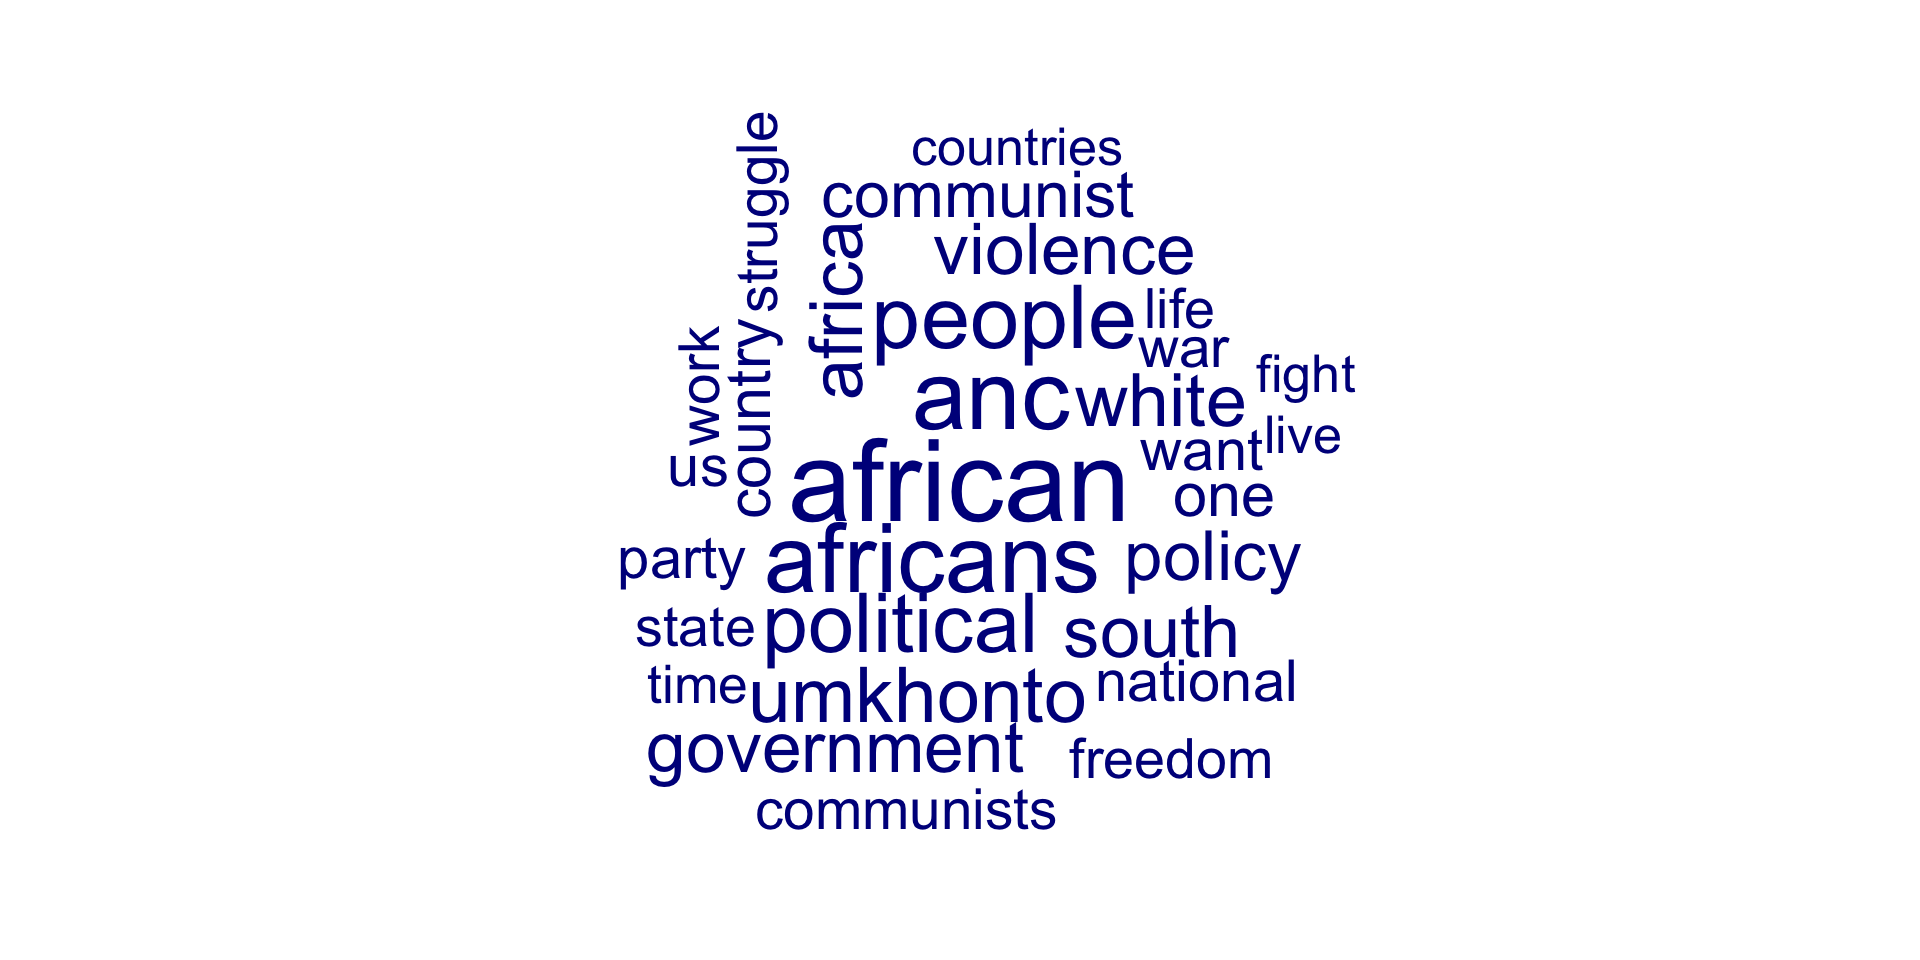
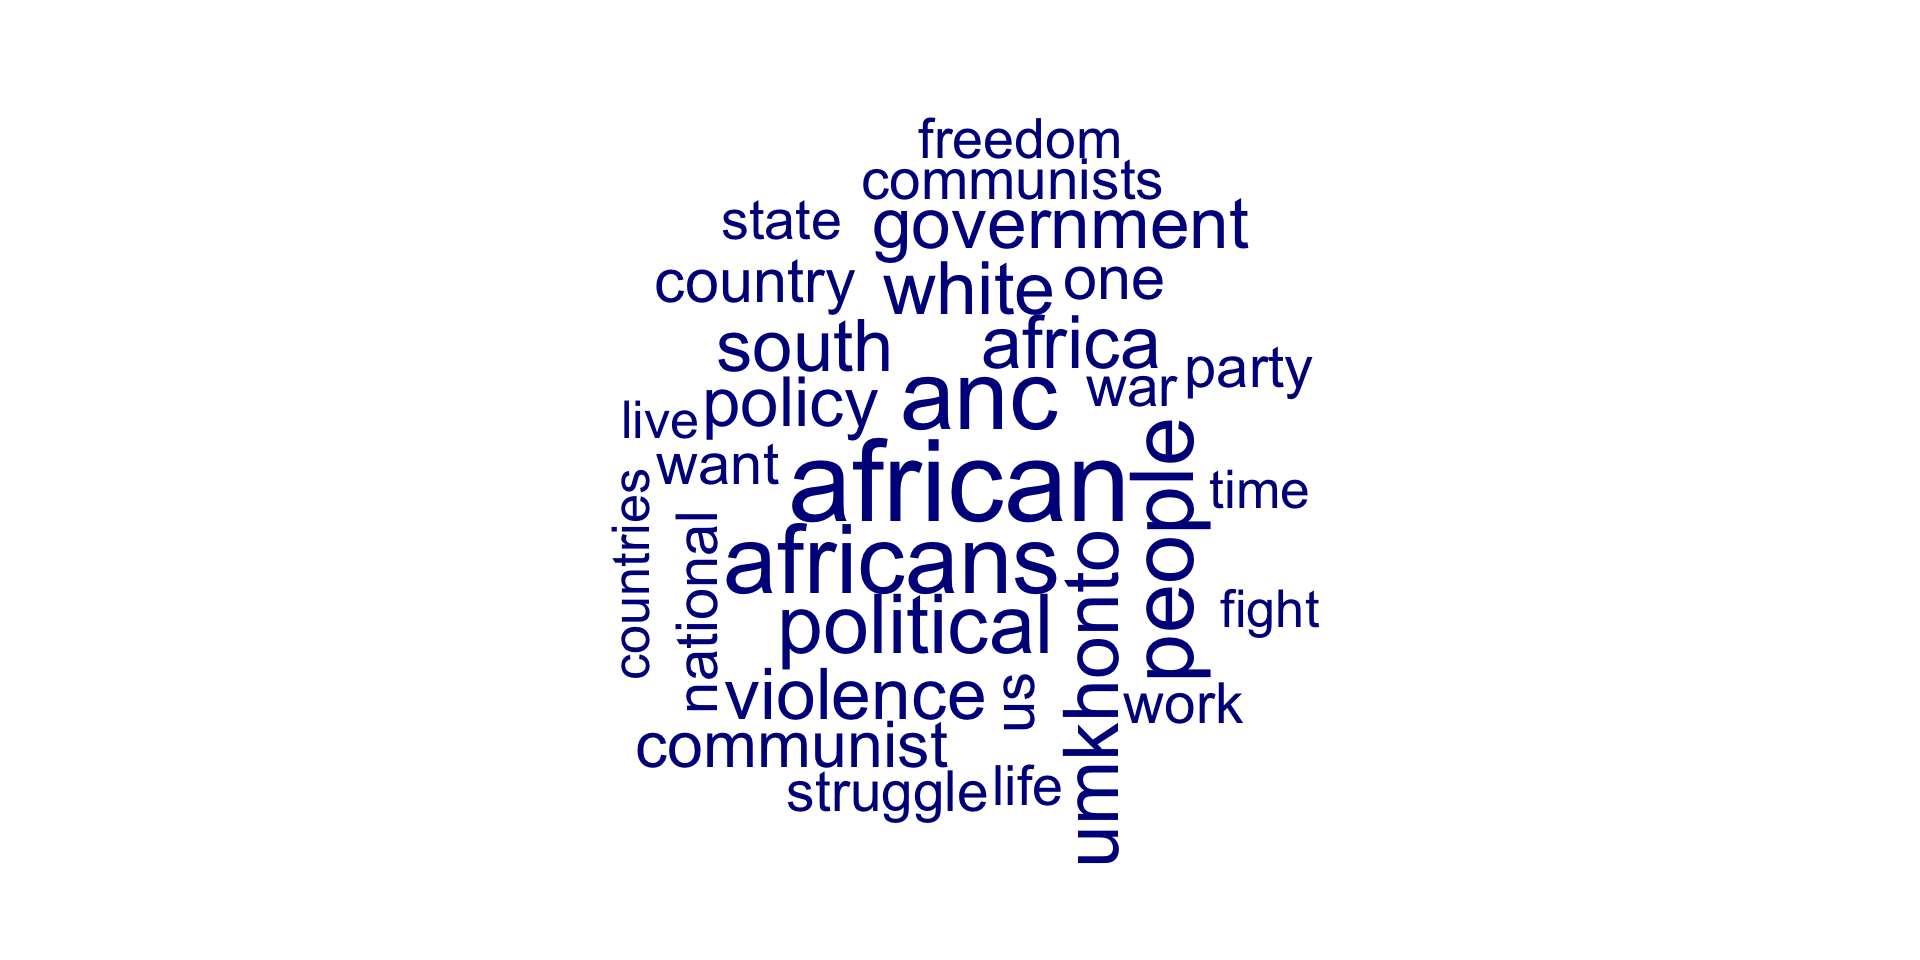
update 2026 CDA

Changed region(s): [[0.3125, 0.125, 0.7188, 0.9062]]

diff --git a/files/CL_CDA_Lecture_1_2026.html b/files/CL_CDA_Lecture_1_2026.html
@@ -949,28 +949,7 @@ Marion Walton
 <p>With careful validation, Generative AI can be helpful for low-level, focused tasks in content classification, unless data includes low resource languages.</p>
 <p>Nonetheless, “AI-generated output alone is not the end goal for social scientists, but a starting point to explain broader social phenomena.” (Acosta, 2025)</p>
 <p>Generative AI lacks understanding and moral agency. As a result it has limited capacity to engage with and interpret social realities, particularly in the Global South.</p>
-</section>
-<section id="cda-cl" class="slide level2">
-<h2>CDA &amp; CL</h2>
-<p>Interaction and synergy (Baker et al)</p>
-<p>Corpus linguistics can expand the scope of discourse analysis:</p>
-<ul>
-<li>Techniques provided a “map” of the corpus, pinpointed areas for subsequent close analysis</li>
-<li>Found examples and quantified them through absolute and relative frequencies</li>
-<li>Lexical patterns, keywords, clusters, collocates revealed novel patterns of use.</li>
-<li>“it can reinforce, refute or revise a researcher’s intuition and show them why and how much their suspicions were grounded. (Partington 200;3:12)</li>
-</ul>
-</section>
-<section id="natural-language-processing-1" class="slide level2">
-<h2>Natural Language Processing</h2>
-<ul>
-<li>Sentiment analysis - major limitations</li>
-<li>Topic modeling less useful for this small, focused (&amp; reflexive) corpus</li>
-<li>Sociograms particularly useful as they recorded contours of discourse practices</li>
-</ul>
-</section>
-<section id="importance-of-critical-discourse-analysis" class="slide level2">
-<h2>Importance of Critical Discourse Analysis</h2>
+<p>Importance of Critical Discourse Analysis</p>
 <ul>
 <li>Essential perspectives if we are to address racism, sexism and Northern/Anglocentric biases in tools</li>
 <li>Important skillset for auditing and adapting tools and datasets</li>
@@ -995,9 +974,10 @@ Marion Walton
 <li><p>Vlieger, Esther, and Loet Leydesdorff. 2012. “Content Analysis and the Measurement of Meaning: The Visualization of Frames in Collections of Messages.” In Research Methodologies, Innovations and Philosophies in Systems Engineering and Information Systems, edited by Manuel Mora, Ovsei Gelman, Anette Steenkamp and Manesh S. Raisinghani, 322–340. Hershey, PA: Information Science Reference.</p></li>
 </ul>
 </section>
-<section id="example-3" class="slide level2">
-<h2>Example</h2>
+<section id="models-make-a-difference" class="slide level2">
+<h2>Models make a difference</h2>
 <p>YouTube #abahambe - xenophobic/afrophobic build up to March and March “deadline” June 30 2026</p>
+<p>Classified using different models</p>
 
 <img data-src="img/protest.jpeg" class="r-stretch quarto-figure-center"><p class="caption">School kids admitted in hospital</p></section>
 <section id="qwen3-vl-flash" class="slide level2">
